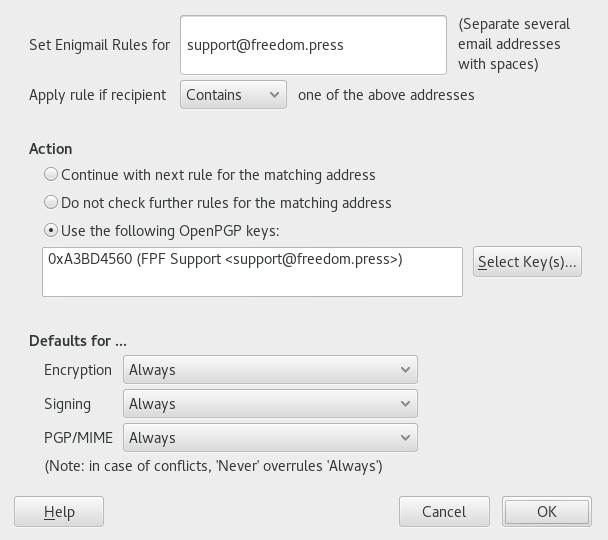
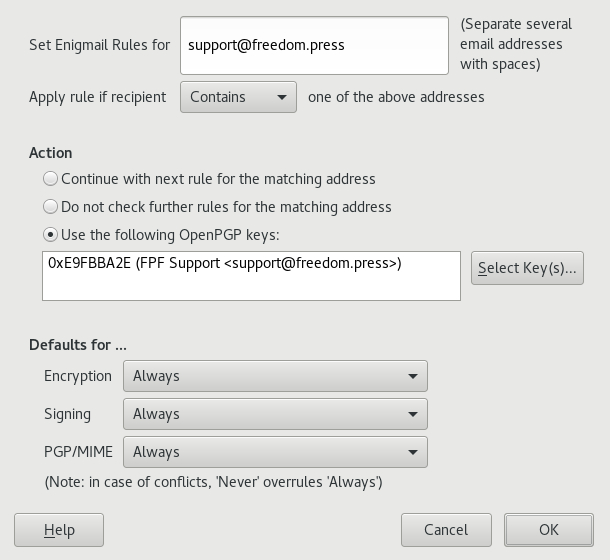
Update the Redmine server live GPG key and screenshots

diff --git a/encrypted_email_setup.rst b/encrypted_email_setup.rst
@@ -46,12 +46,8 @@ Select the entire public key and copy it to your clipboard. Import the
 copied public key into your local GPG keyring.
 
 The key is also available on the keyservers (fingerprint:
-``5F7B9C54E9B27164909EDA6693359153A3BD4560``), or you can download it
+``D0E0B2F2B71BA4E48278037D9EA33029E9FBBA2E``), or you can download it
 `here <https://freedom.press/sites/default/files/redmine_key.asc>`_.
-
-.. todo:: The following key is a testing key, so this command is only a
-   placeholder until the transition to a live key. DO NOT upload this key to
-   keyservers.
 
 .. todo:: Add section on testing encrypted email after setting it up
 
